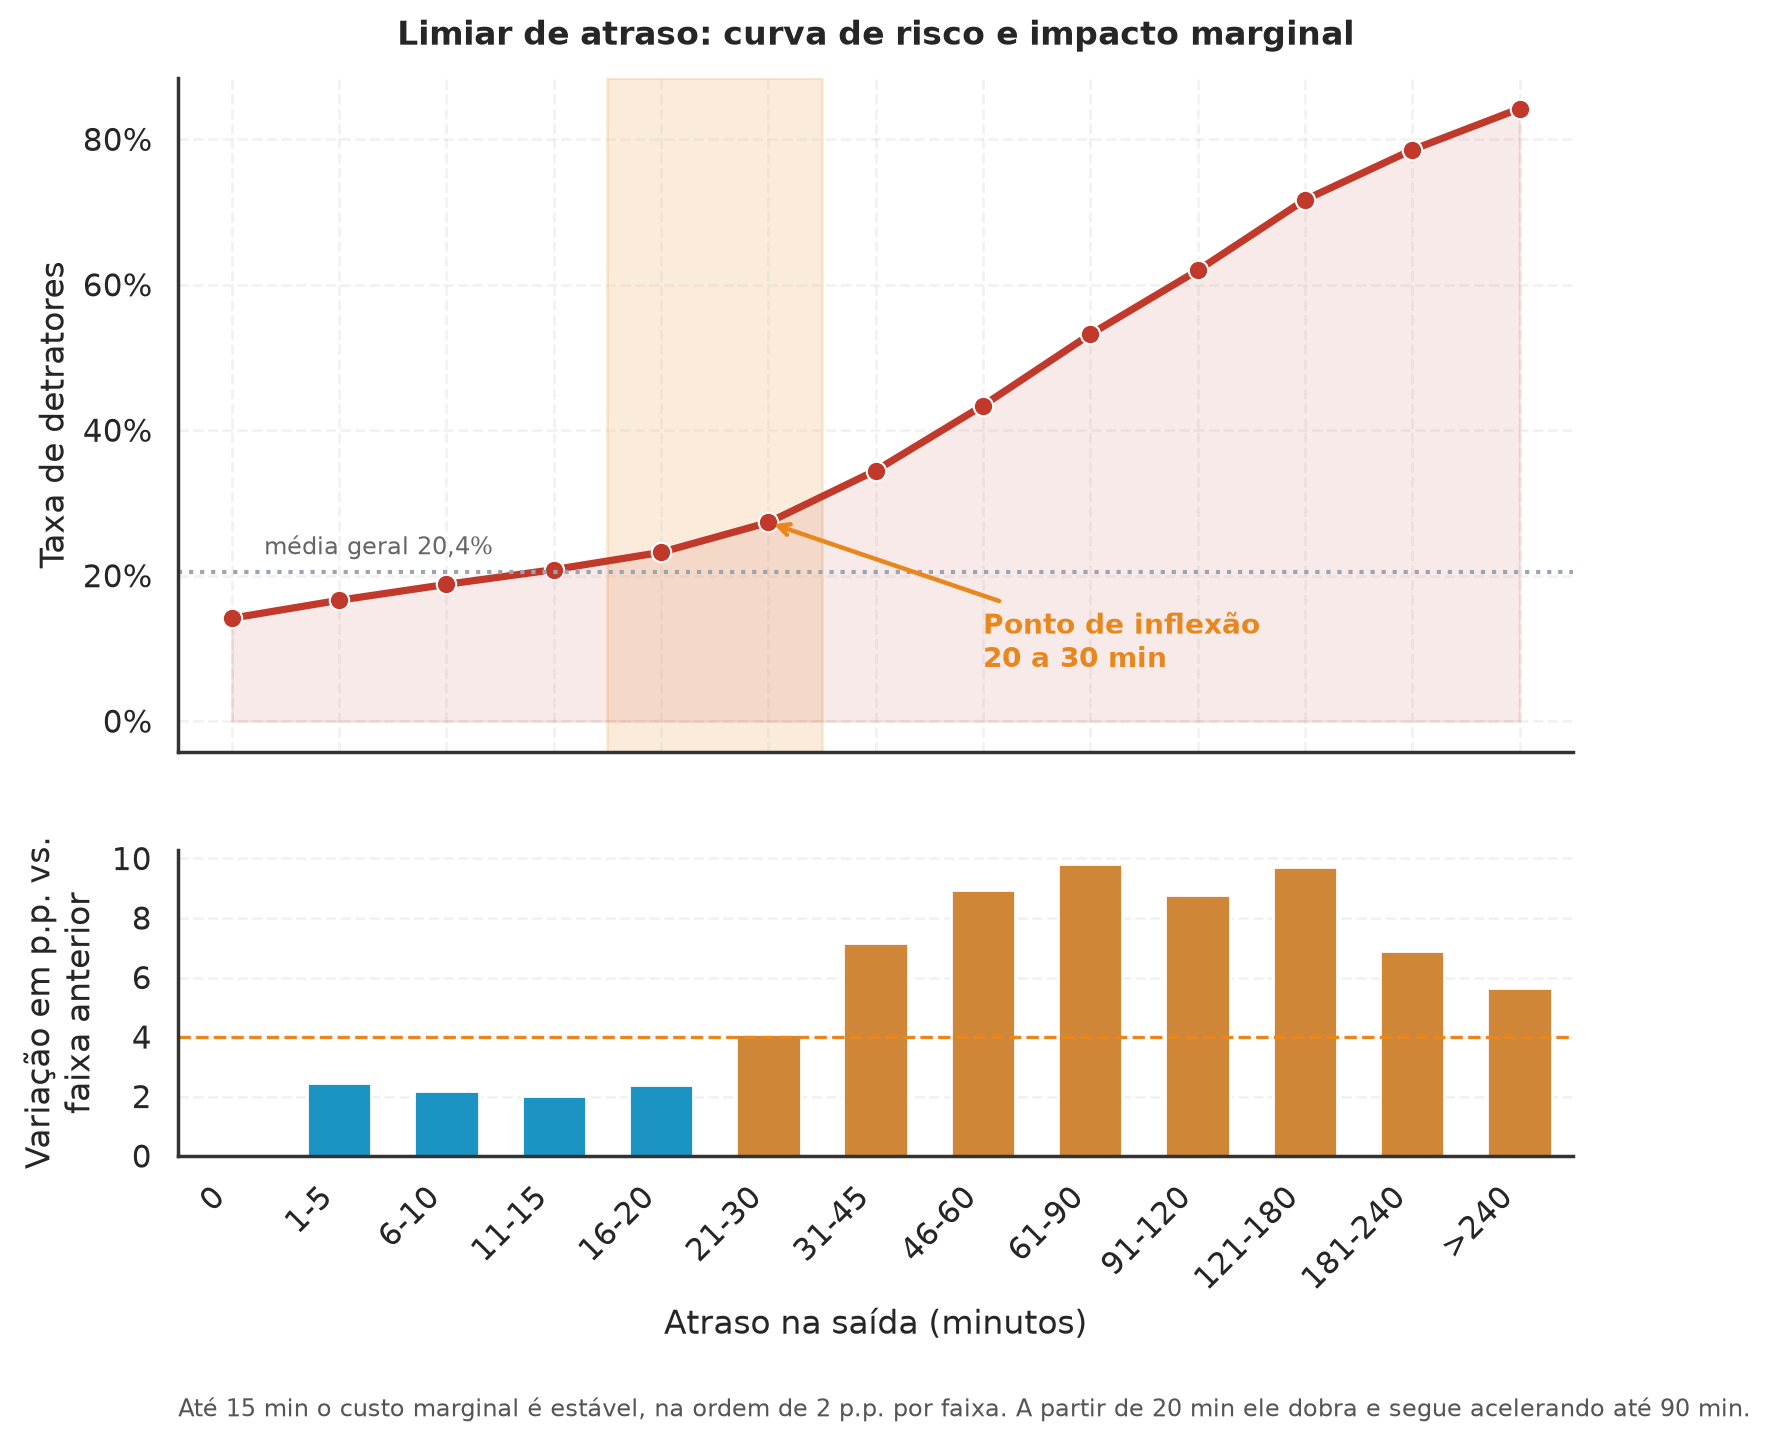
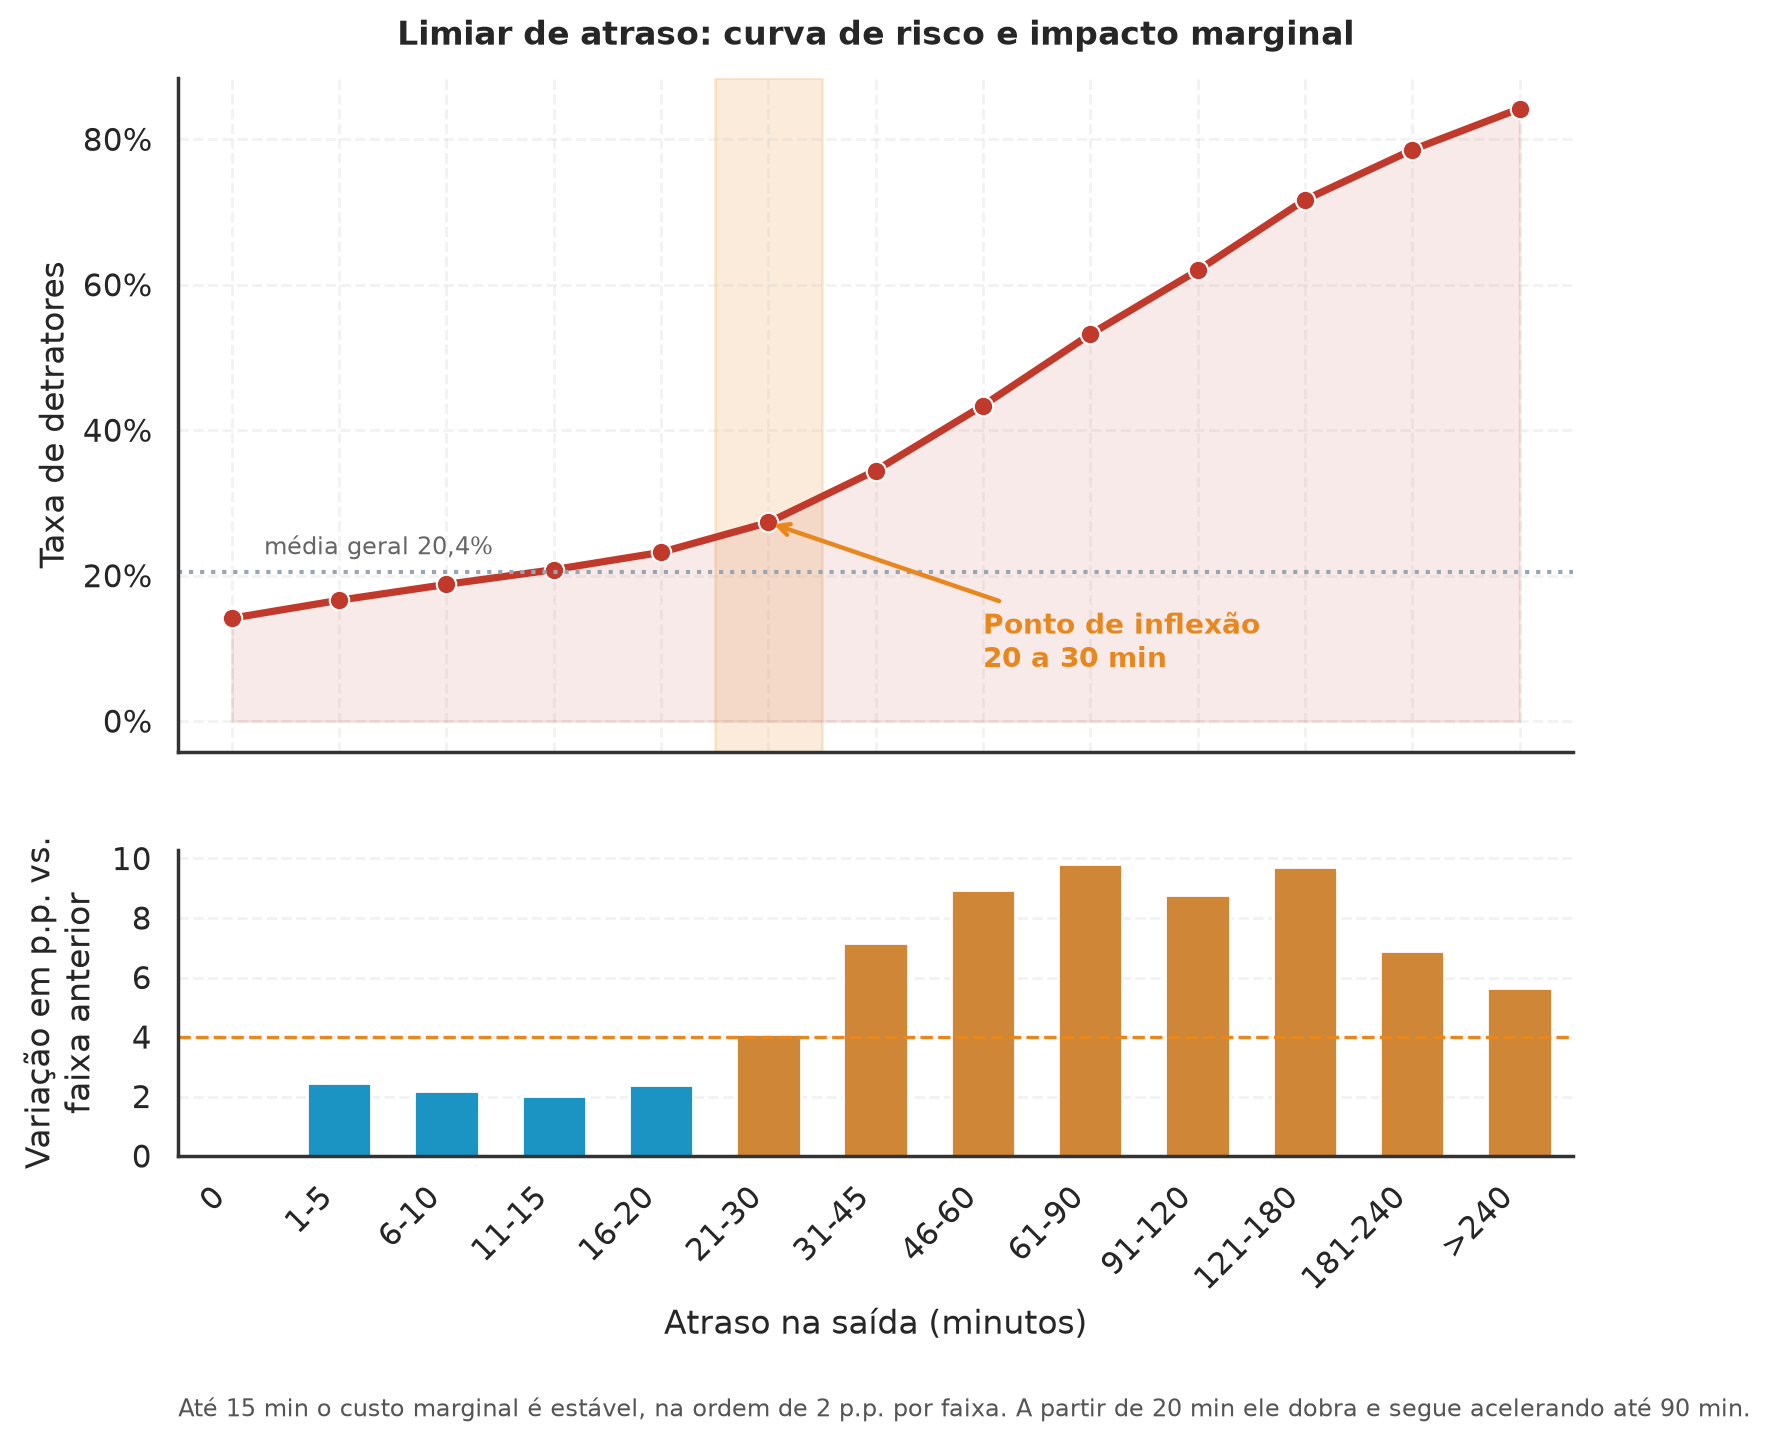
docs(#54): alinha a regiao destacada do grafico de limiar ao rotulo
A faixa sombreada cobria dois bins, 16-20 e 21-30, enquanto o rotulo nomeava
apenas 20 a 30 min. Passa a cobrir so o bin 21-30, que e o intervalo (20, 30]
das bordas definidas em BINS_LIMIAR e corresponde exatamente ao texto.

A faixa deixa de ser localizada pelo rotulo fixo 21-30 e passa a ser a primeira
cujo custo marginal ultrapassa o limiar, com os minutos do texto derivados das
bordas do proprio bin. Assim o destaque acompanha os dados e nao pode divergir
do rotulo.

O limiar de 4 p.p. vira a constante LIMIAR_MARGINAL, usada nos tres pontos que
antes o repetiam: a cor das barras, a linha de referencia e a localizacao da
faixa de inflexao.

Das sete figuras, apenas g7 mudou. O texto da documentacao ja dizia 20 a 30
minutos e segue correto.

Changed region(s): [[0.3418, 0.0312, 0.404, 0.5305]]

diff --git a/src/graficos.py b/src/graficos.py
@@ -37,6 +37,11 @@ BINS_LIMIAR = [-1, 0, 5, 10, 15, 20, 30, 45, 60, 90, 120, 180, 240, 10_000]
 LAB_LIMIAR = ["0", "1-5", "6-10", "11-15", "16-20", "21-30", "31-45", "46-60",
               "61-90", "91-120", "121-180", "181-240", ">240"]
 
+# Acima deste incremento em pontos percentuais a curva de risco muda de regime.
+# Usado para colorir as barras, tracar a linha de referencia e localizar a
+# faixa de inflexao: um valor so, para os tres nao poderem divergir.
+LIMIAR_MARGINAL = 4
+
 OUT_DIR = os.environ.get("SAFIRA_OUT_DIR", "out/figuras")
 
 
@@ -254,11 +259,17 @@ def g7_limiar_atraso(df: pd.DataFrame):
             color="#666", fontsize=8.5, ha="left")
 
     # Janela de inflexao localizada pelo rotulo, nao por posicao fixa.
-    rot = list(r["faixa"].astype(str))
-    if "21-30" in rot:
-        i = rot.index("21-30")
-        ax.axvspan(i - 1.5, i + 0.5, color=LARANJA, alpha=0.16, zorder=0)
-        ax.annotate("Ponto de inflexão\n20 a 30 min", (i, float(r.loc[i, "taxa"])),
+    # Ponto de inflexao: primeira faixa cujo custo marginal ultrapassa o limiar.
+    # A faixa e localizada pelos dados, e o rotulo sai das bordas do proprio bin,
+    # para que texto e regiao sombreada nao possam divergir.
+    acelera = r.index[r["marginal"] >= LIMIAR_MARGINAL]
+    if len(acelera):
+        i = int(acelera[0])
+        pos = LAB_LIMIAR.index(str(r.loc[i, "faixa"]))
+        inicio, fim = BINS_LIMIAR[pos], BINS_LIMIAR[pos + 1]
+        ax.axvspan(i - 0.5, i + 0.5, color=LARANJA, alpha=0.16, zorder=0)
+        ax.annotate(f"Ponto de inflexão\n{inicio} a {fim} min",
+                    (i, float(r.loc[i, "taxa"])),
                     xytext=(i + 2, max(media - 13, 4)), fontsize=10,
                     fontweight="bold", color=LARANJA,
                     arrowprops=dict(arrowstyle="->", color=LARANJA, lw=1.6))
@@ -267,11 +278,13 @@ def g7_limiar_atraso(df: pd.DataFrame):
     ax.yaxis.set_major_formatter(_fmt(0, "%"))
     ax.set_title("Limiar de atraso: curva de risco e impacto marginal", pad=12)
 
-    r["acelera"] = np.where(r["marginal"] >= 4, "Acima de 4 p.p.", "Até 4 p.p.")
+    rotulo_acima = f"Acima de {LIMIAR_MARGINAL} p.p."
+    rotulo_ate = f"Até {LIMIAR_MARGINAL} p.p."
+    r["acelera"] = np.where(r["marginal"] >= LIMIAR_MARGINAL, rotulo_acima, rotulo_ate)
     sns.barplot(data=r, x="faixa", y="marginal", hue="acelera",
-                palette={"Até 4 p.p.": AZ_CLA, "Acima de 4 p.p.": LARANJA},
+                palette={rotulo_ate: AZ_CLA, rotulo_acima: LARANJA},
                 dodge=False, width=0.6, ax=ax2)
-    ax2.axhline(4, color=LARANJA, ls="--", lw=1.2)
+    ax2.axhline(LIMIAR_MARGINAL, color=LARANJA, ls="--", lw=1.2)
     if ax2.get_legend() is not None:
         ax2.get_legend().remove()
     ax2.set(ylabel="Variação em p.p. vs.\nfaixa anterior",
